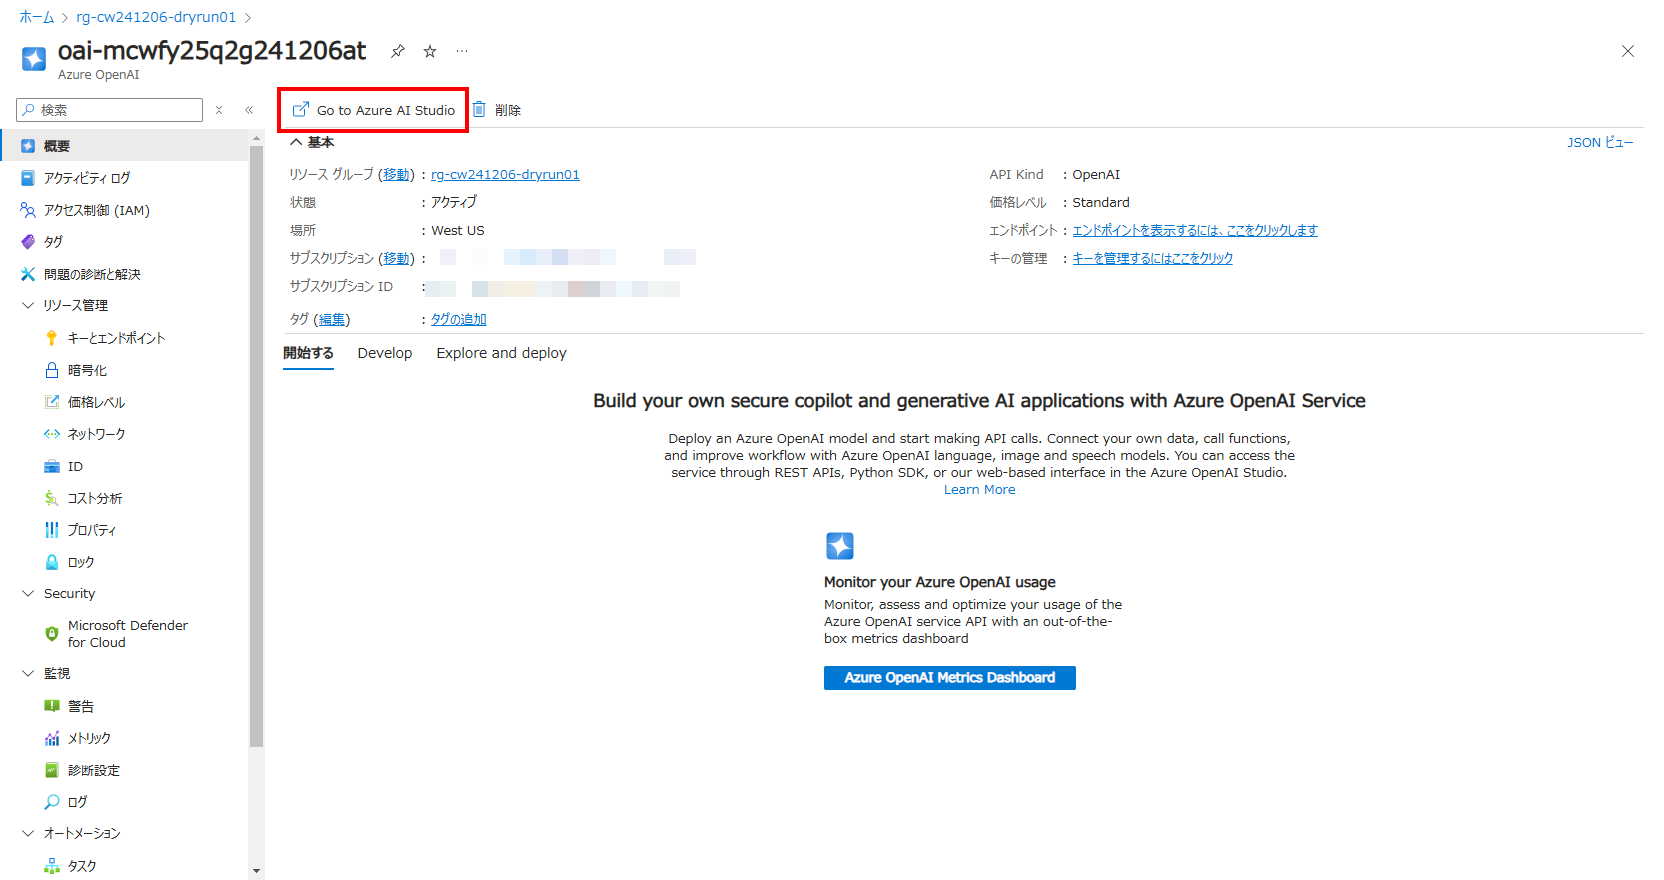
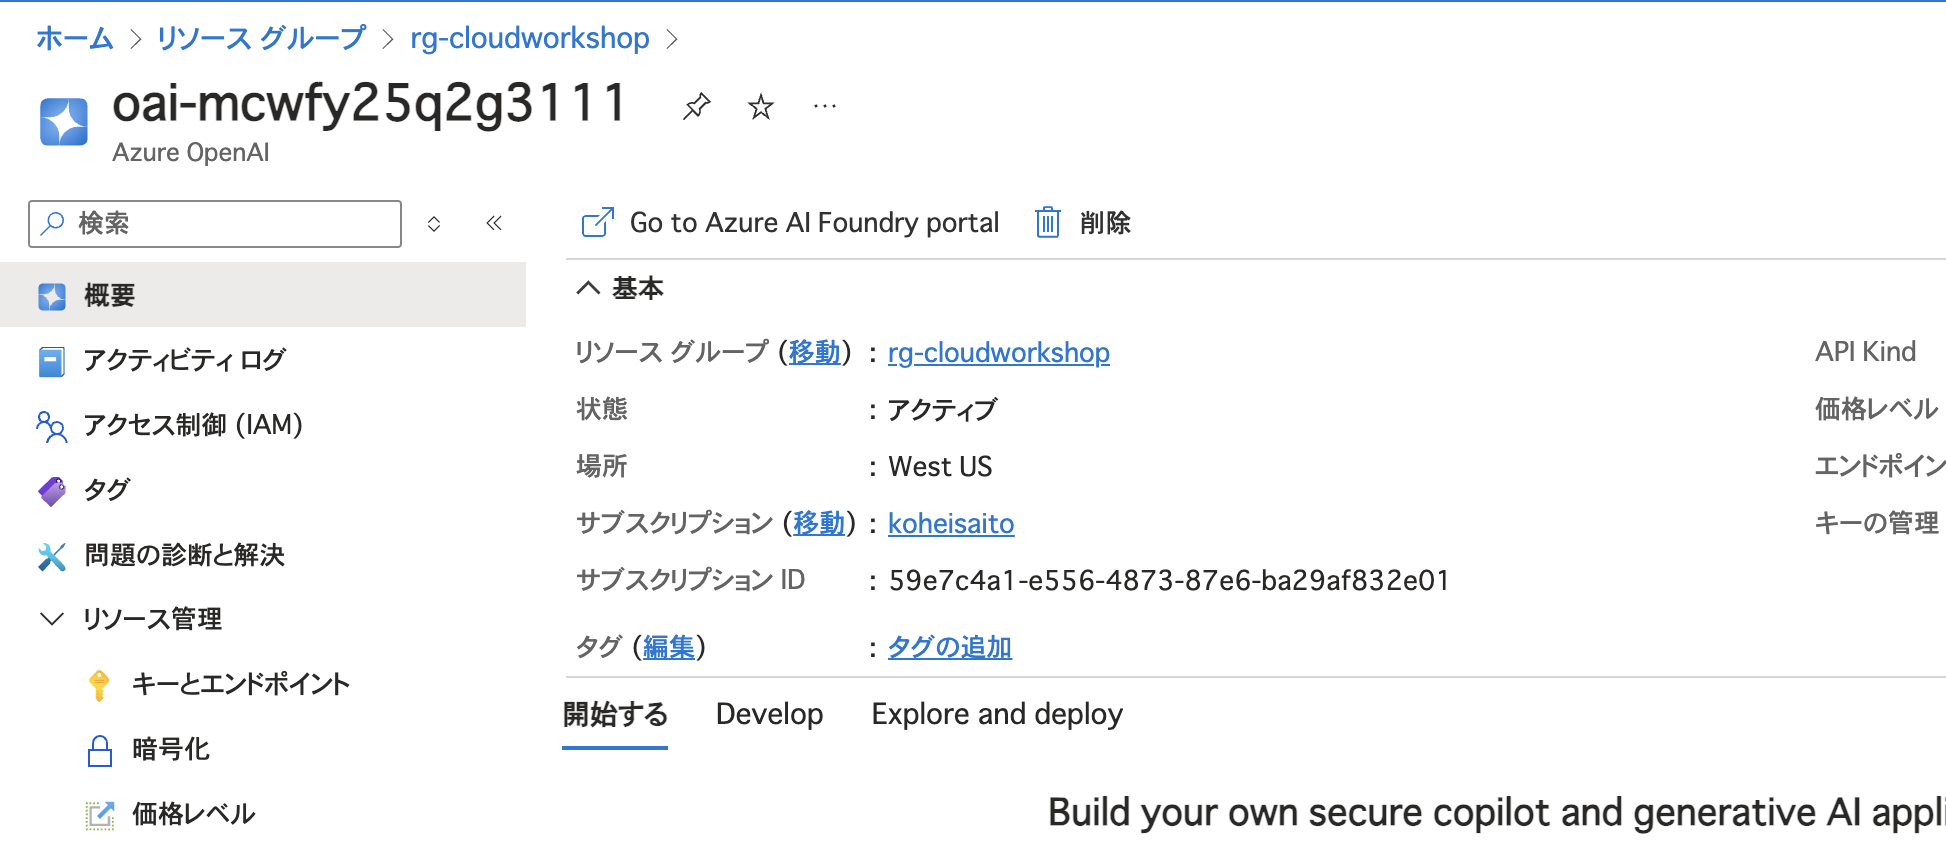
タイポ修正

diff --git a/HOL-step-by-step-guide-1.md b/HOL-step-by-step-guide-1.md
@@ -218,7 +218,7 @@ Dec 2024
     |text|●||||●|日本語 ‐ Microsoft||
     |layoutText|●||||●|日本語 ‐ Microsoft||
     |imageTags|●|●||●|●|標準 ‐ Lucene||
-    |imageTags|●|●||●|●|標準 ‐ Lucene||
+    |imageCaption|●|●||●|●|標準 ‐ Lucene||
 
 - **次: インデクサーの作成** をクリック
 

diff --git a/HOL-step-by-step-guide-2.md b/HOL-step-by-step-guide-2.md
@@ -19,7 +19,7 @@ Dec 2024
 
 - 2 種類のAzure OpenAI モデルを展開
 
-    - 展開済みの Azure OpenAI リソースに移動し、**[Go to Azure AI Studio]** を選択
+    - 展開済みの Azure OpenAI リソースに移動し、**[Go to Azure Foundry Portal]** を選択
 
         <img src="./images/ai-foundry-01.png" />
 

diff --git a/README.md b/README.md
@@ -6,6 +6,11 @@
 
 ┣ .github  
 ┃   ┗ workflows (ワークフロー)  
+┣ app
+┃   ┣ csharp
+┃      ┗ simple (C# サンプルアプリ)
+┃   ┗ python
+┃      ┗ simple (Python サンプルアプリ)
 ┣ bidep  
 ┃   ┣ modules (Bicep モジュール)  
 ┃   ┣ parameters (Bicep パラメーター)  
